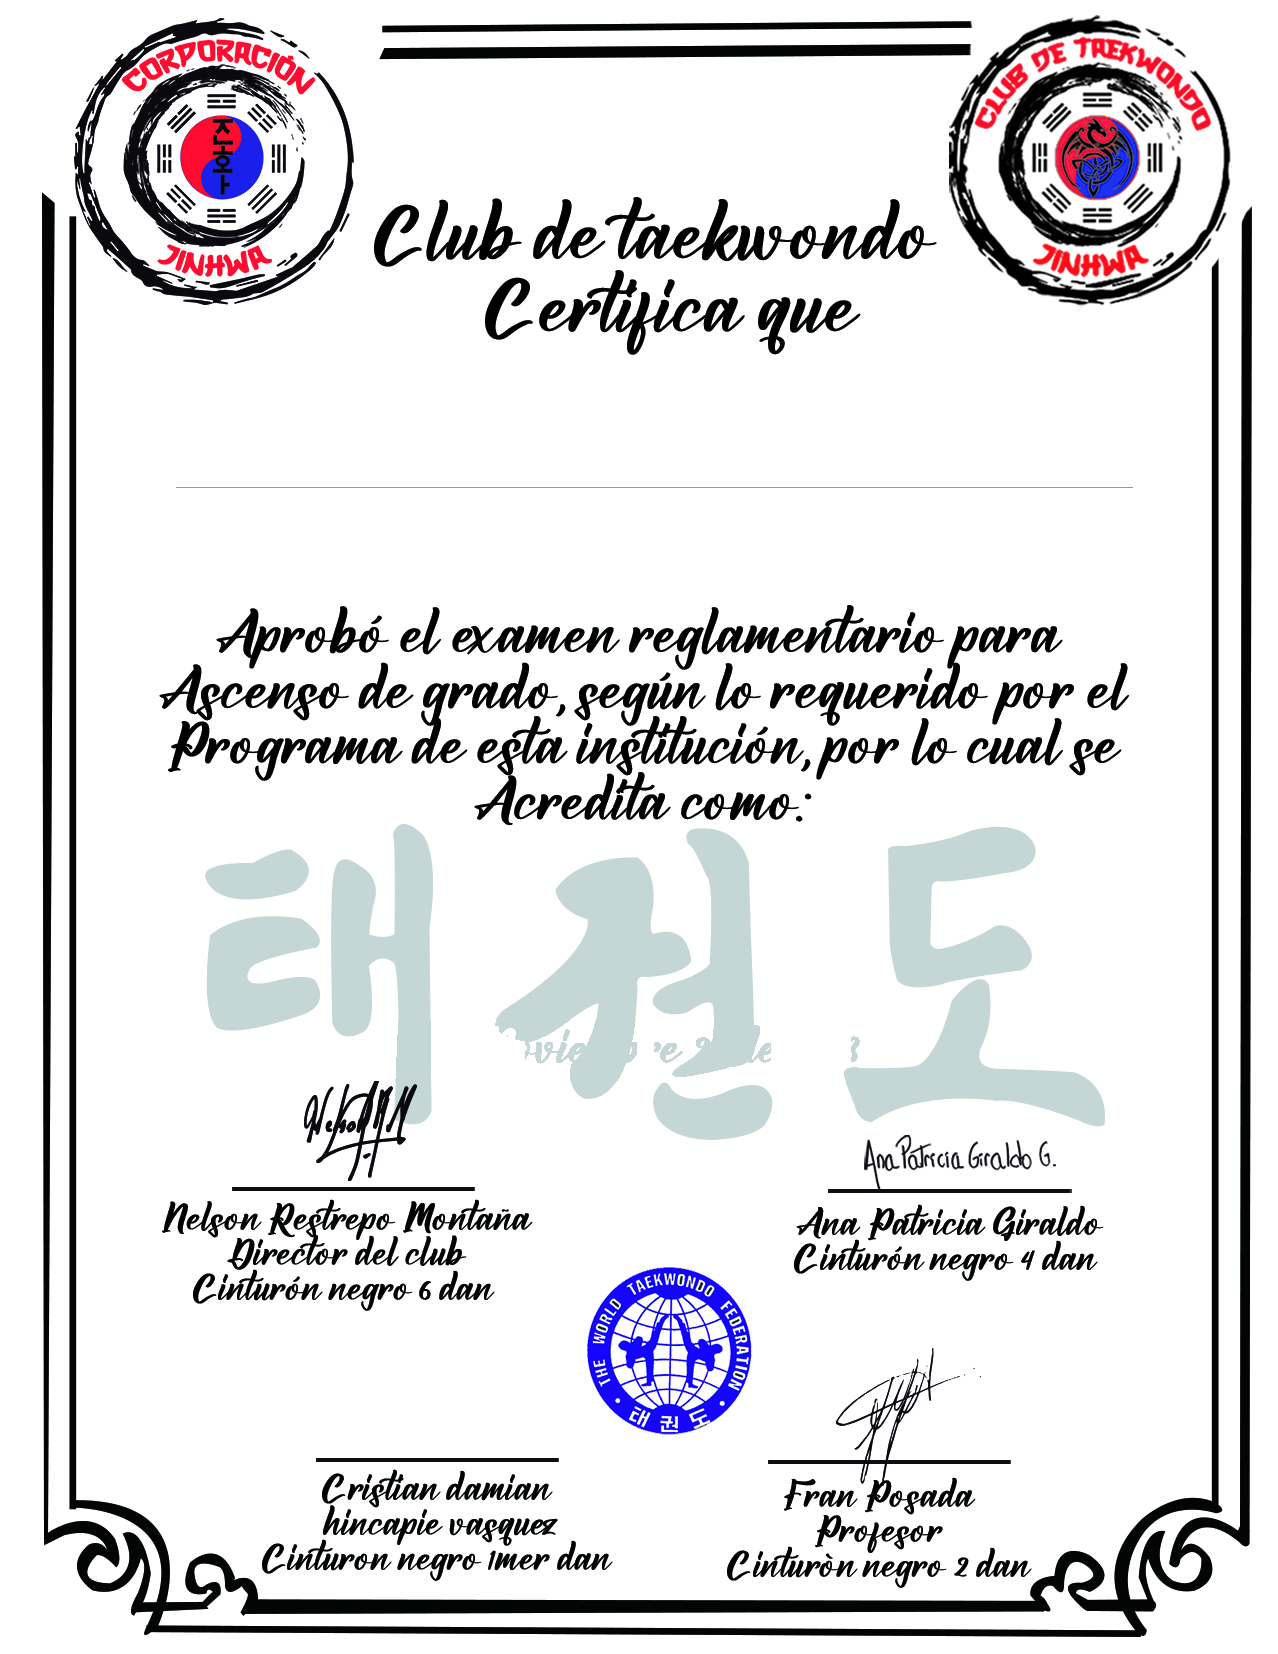
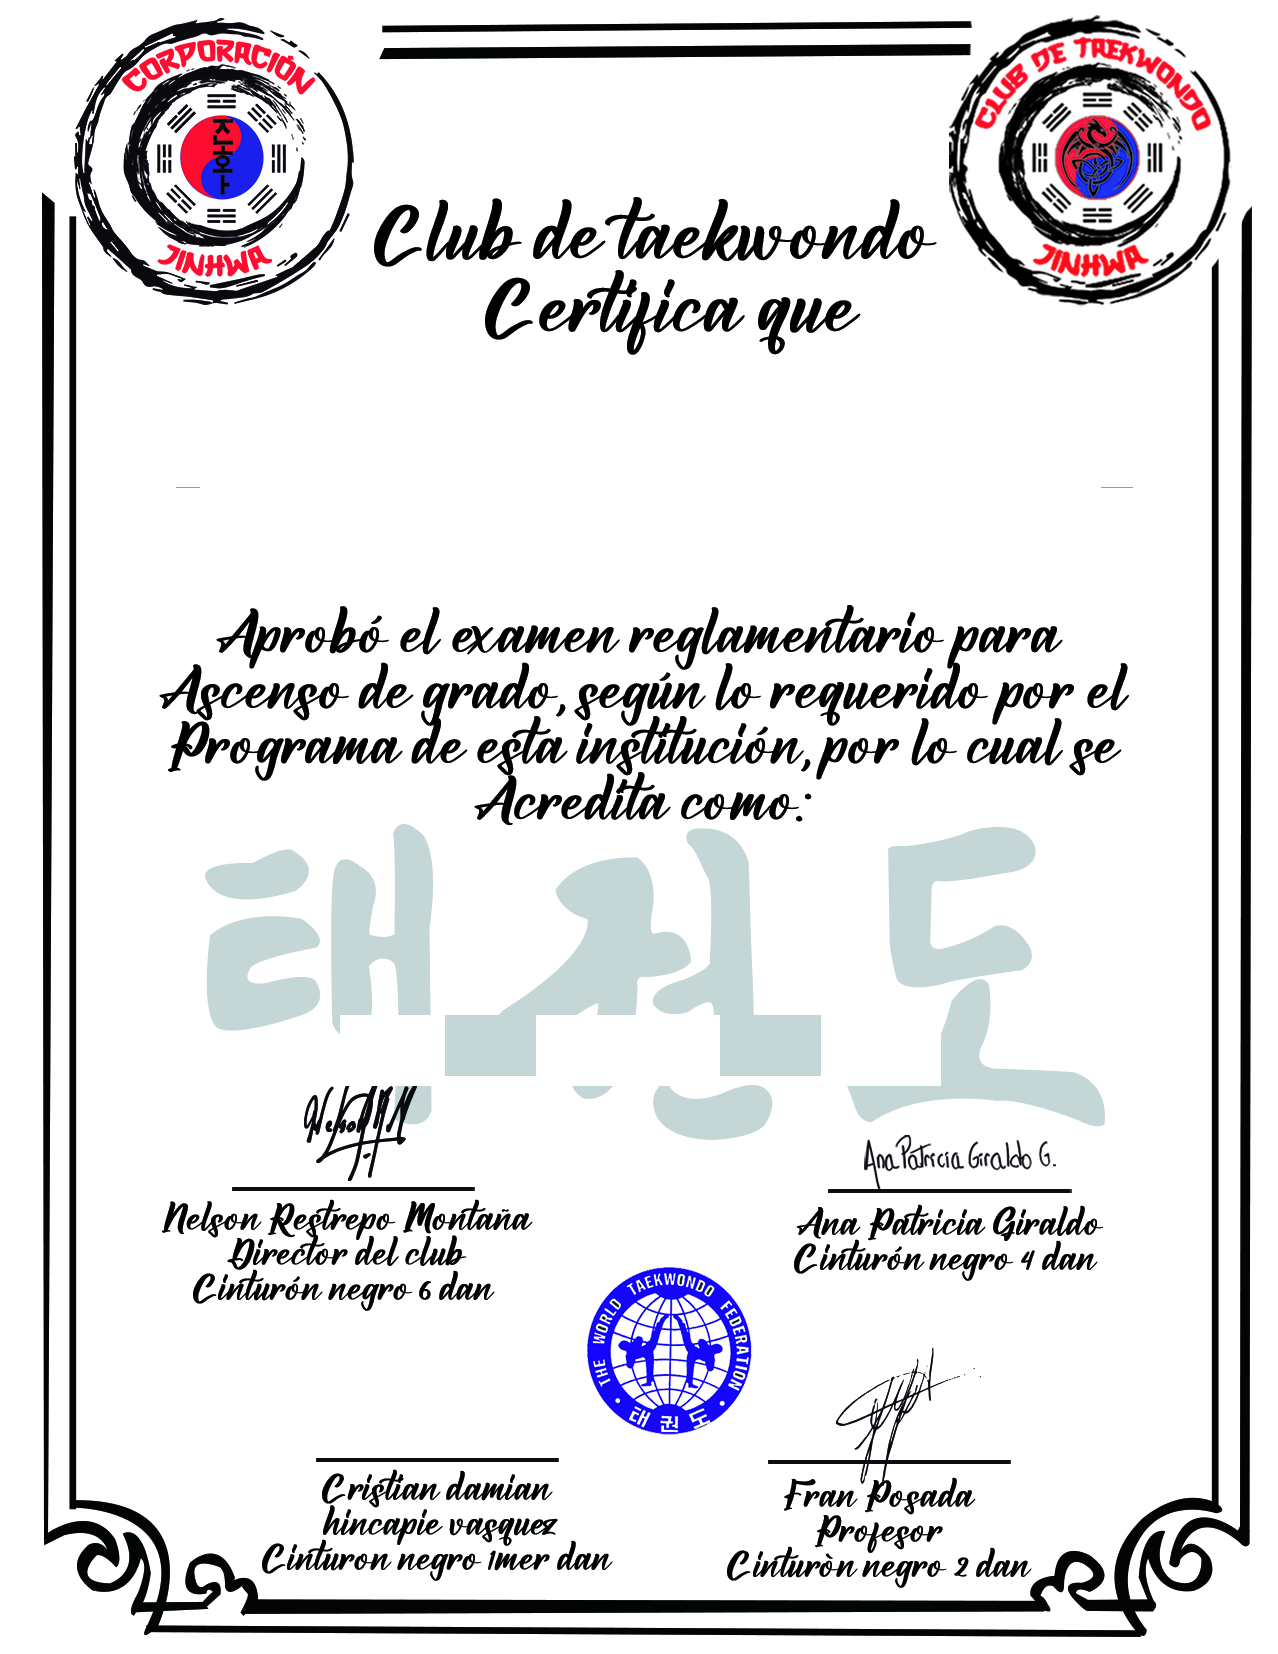
fix(diploma): plantilla v3 limpia, doc identidad visible, sin superposiciones en firmas

Changed region(s): [[0.2746, 0.6167, 0.7324, 0.6784]]

diff --git a/scratch/test_output.html b/scratch/test_output.html
@@ -13,60 +13,70 @@
 <link rel="preconnect" href="https://fonts.gstatic.com" crossorigin>
 <link href="https://fonts.googleapis.com/css2?family=Cinzel:wght@600;700;800;900&family=Playfair+Display:ital,wght@0,600;0,700;1,400&display=swap" rel="stylesheet">
 
-<div id="certificado-contenido" style="width:800px; height:1036px; max-width:100%; margin:0 auto; position:relative; background:#ffffff url('../public/img/visual/diploma_base.png') no-repeat center top; background-size:100% 100%; box-sizing:border-box; box-shadow:0 20px 45px rgba(15,23,42,0.18); border-radius:12px; overflow:hidden; font-family:'Playfair Display', Georgia, serif; color:#0f172a; user-select:none;">
+<div id="certificado-contenido" style="width:800px; height:1036px; max-width:100%; margin:0 auto; position:relative; background:#ffffff url('../public/img/visual/diploma_plantilla_v3.png?v=1790537845') no-repeat center top; background-size:100% 100%; box-sizing:border-box; box-shadow:0 20px 45px rgba(15,23,42,0.18); border-radius:12px; overflow:hidden; font-family:'Playfair Display', Georgia, serif; color:#0f172a; user-select:none;">
 
-    <!-- 1. ZONA DEL ESTUDIANTE: Nombre, documento, folio y sede sobre la línea de certificación -->
-    <div style="position:absolute; top:222px; left:70px; right:70px; text-align:center;">
-        <h2 style="font-family:'Cinzel', Georgia, serif; font-size:26px; font-weight:800; color:#0f172a; letter-spacing:1.8px; margin:0; line-height:1.2; text-shadow:0 0 1px rgba(0,0,0,0.15);">
-            ANA SOFÍA RAMÍREZ AGUDELO        </h2>
-        <div style="display:inline-flex; align-items:center; gap:8px; margin-top:5px; font-family:'Segoe UI', system-ui, sans-serif; font-size:11.5px; font-weight:700; color:#475569; letter-spacing:1px; text-transform:uppercase;">
-                            <span>T.I.: 1.025.485.992</span>
-                <span style="color:#cbd5e1;">•</span>
-                                        <span style="font-family:'Courier New', monospace; letter-spacing:1.5px; color:#1e293b;">FOLIO: JH-2026-0001</span>
+    <!-- 1. ZONA DEL ESTUDIANTE: Nombre completo sobre la línea y documento de identidad oficial -->
+    <div style="position:absolute; top:236px; left:60px; right:60px; text-align:center;">
+        <h2 style="font-family:'Cinzel', Georgia, serif; font-size:27px; font-weight:800; color:#0f172a; letter-spacing:2px; margin:0; line-height:1.2; text-shadow:0 0 1px rgba(0,0,0,0.12);">
+            ANA SOFIA SÁNCHEZ AGUDELO        </h2>
+        
+        <!-- Línea caligráfica institucional -->
+        <div style="width:540px; height:1.5px; background:linear-gradient(90deg, transparent, #1e293b 15%, #1e293b 85%, transparent); margin:7px auto 5px;"></div>
+
+        <!-- Documento de identidad oficial destacado y sin saltos -->
+                    <div style="font-family:'Segoe UI', system-ui, sans-serif; font-size:13.5px; font-weight:800; color:#0f172a; letter-spacing:1.5px; text-transform:uppercase;">
+                TI: 1011222665            </div>
+        
+        <!-- Folio y Sede en segunda línea para máxima nitidez -->
+        <div style="display:inline-flex; align-items:center; justify-content:center; gap:8px; margin-top:2px; font-family:'Segoe UI', system-ui, sans-serif; font-size:11px; font-weight:600; color:#64748b; letter-spacing:1px; text-transform:uppercase;">
+                            <span style="font-family:'Courier New', monospace; letter-spacing:1.5px; font-weight:700; color:#334155;">FOLIO: JH-2026-0001</span>
                                         <span style="color:#cbd5e1;">•</span>
-                <span>SEDE: Belén</span>
+                <span>SEDE PRINCIPAL SANTA MÓNICA CAMPO ALEGRE</span>
                     </div>
     </div>
 
     <!-- 
-        NOTA: En la plantilla base (diploma_base.png), entre y=380px e y=495px ya se encuentra 
+        NOTA: En la plantilla base (diploma_plantilla_v3.png), entre y=380px e y=516px ya se encuentra 
         impreso en el diseño oficial el texto:
         "Aprobó el examen reglamentario para Ascenso de grado, según lo requerido por el 
          Programa de esta institución, por lo cual se Acredita como:"
-        Por directriz de diseño, NO se posiciona ningún elemento encima de este bloque.
+        Esta zona queda 100% respetada y visible sin ninguna superposición.
     -->
 
-    <!-- 2. ZONA DE ACREDITACIÓN: Foto, nuevo grado, grado previo, fecha oficial y observaciones -->
-    <div style="position:absolute; top:514px; left:80px; right:80px; display:flex; flex-direction:column; align-items:center; text-align:center;">
+    <!-- 2. ZONA DE ACREDITACIÓN: Foto con insignia marcial, nuevo grado, fecha y observaciones -->
+    <div style="position:absolute; top:524px; left:60px; right:60px; display:flex; flex-direction:column; align-items:center; text-align:center;">
         
-        <!-- Foto oficial del estudiante con marco circular de honor -->
-        <div style="width:68px; height:68px; border-radius:50%; border:2.5px solid #0f172a; box-shadow:0 4px 12px rgba(15,23,42,0.22); overflow:hidden; background:#ffffff; margin-bottom:5px; flex-shrink:0;">
-            <img src="../public/img/visual/logo.svg" alt="Foto del estudiante" style="width:100%; height:100%; object-fit:cover; display:block;">
+        <!-- Bloque integrado: Foto del estudiante y Grado Acreditado -->
+        <div style="display:flex; align-items:center; justify-content:center; gap:18px;">
+            <!-- Foto oficial con marco circular de honor -->
+            <div style="width:64px; height:64px; border-radius:50%; border:2.5px solid #0f172a; box-shadow:0 3px 10px rgba(15,23,42,0.22); overflow:hidden; background:#ffffff; flex-shrink:0;">
+                <img src="../public/img/visual/logo.svg" alt="Foto del estudiante" style="width:100%; height:100%; object-fit:cover; display:block;">
+            </div>
+
+            <!-- Grado Acreditado e Indicador Previo -->
+            <div style="text-align:left;">
+                <div style="font-family:'Cinzel', Georgia, serif; font-size:24px; font-weight:900; color:#881337; letter-spacing:2px; text-transform:uppercase; margin:0; line-height:1.1; text-shadow:0 0 1px rgba(136,19,55,0.2);">
+                    PINTA ROJO                </div>
+                                    <div style="font-family:Georgia, serif; font-size:11.5px; font-style:italic; color:#475569; margin-top:3px;">
+                        Grado anterior: Azul                    </div>
+                            </div>
         </div>
 
-        <!-- Grado Acreditado -->
-        <div style="font-family:'Cinzel', Georgia, serif; font-size:23px; font-weight:900; color:#881337; letter-spacing:2px; text-transform:uppercase; margin:0; line-height:1.15; text-shadow:0 0 1px rgba(136,19,55,0.2);">
-            CINTURÓN PINTA ROJO        </div>
+        <!-- Distintivo de Fecha Oficial del Examen (opaco para máxima nitidez) -->
+        <div style="display:inline-block; margin-top:8px; min-width:280px; max-width:340px; background:#ffffff; border:1px solid #94a3b8; border-radius:9999px; padding:3px 22px; font-family:Georgia, serif; font-size:12px; font-style:italic; font-weight:600; color:#0f172a; box-shadow:0 2px 6px rgba(0,0,0,0.06); text-align:center;">
+            Medellín, 29 de Agosto de 2026        </div>
 
-        <!-- Indicador de Grado Anterior -->
-                    <div style="font-family:Georgia, serif; font-size:11px; font-style:italic; color:#475569; margin-top:2px;">
-                Grado anterior: Cinturón Azul            </div>
-        
-        <!-- Distintivo de Fecha Oficial del Examen (opaco para pulcritud total) -->
-        <div style="display:inline-block; margin-top:6px; min-width:280px; max-width:330px; background:#ffffff; border:1px solid #94a3b8; border-radius:9999px; padding:3px 20px; font-family:Georgia, serif; font-size:12px; font-style:italic; font-weight:600; color:#0f172a; box-shadow:0 2px 6px rgba(0,0,0,0.08); text-align:center;">
-            Medellín, 15 de Agosto de 2026        </div>
-
-        <!-- Observaciones / Mención de Honor del Maestro Evaluador (en el centro libre sin invadir firmas) -->
-                    <div style="margin-top:5px; max-width:330px; font-family:Georgia, serif; font-size:9.5px; line-height:1.25; font-style:italic; color:#334155; padding:0 5px;">
-                “El practicante demostró excelente disciplina y técnica de poomsae.”
+        <!-- Observaciones / Mención de Honor del Maestro Evaluador (en el centro superior sin tocar firmas) -->
+                    <div style="margin-top:6px; max-width:380px; font-family:Georgia, serif; font-size:9.5px; line-height:1.25; font-style:italic; color:#334155; padding:0 10px;">
+                “El practicante buen despeño tiene muy buana tecnica de pateo pero tiene que mejorar en las poomseas tiene un cardio muy bajo debe mejorar eso no sabe combatir peor lo intenta y tiene muy buen compañerismo.”
             </div>
             </div>
 
     <!-- 
-        NOTA: En la plantilla base (diploma_base.png), entre y=680px e y=1036px ya se encuentran 
+        NOTA: En la plantilla base (diploma_plantilla_v3.png), a partir de y=677px se encuentran 
         impresas las firmas originales y sellos: Gran Maestro Nelson Restrepo (6 Dan), 
         Maestra Ana Patricia Giraldo (4 Dan), Emblema Oficial WTF, Cristian Hincapié y Fran Posada.
-        La zona inferior queda 100% despejada y libre de elementos para respetar su autenticidad.
+        Toda esta zona queda 100% libre e intacta.
     -->
 
 </div>

diff --git a/scratch/signature_bounds.php b/scratch/signature_bounds.php
@@ -1,0 +1,33 @@
+<?php
+$orig = imagecreatefrompng('public/img/visual/diploma_base.png');
+// In diploma_base.png (1278x1654), where is the top of Nelson Restrepo's signature?
+// Let's scan y from 1000 to 1200, x from 200 to 600
+for ($y = 1020; $y <= 1180; $y += 5) {
+    for ($x = 200; $x <= 600; $x += 2) {
+        $rgb = imagecolorat($orig, $x, $y);
+        $r = ($rgb >> 16) & 0xFF;
+        $g = ($rgb >> 8) & 0xFF;
+        $b = $rgb & 0xFF;
+        if ($r < 60 && $g < 60 && $b < 60) {
+            echo "First dark pixel in signature area: x=$x, y=$y (scaled: x=" . round($x * 800/1278) . ", y=" . round($y * 800/1278) . ")\n";
+            break 2;
+        }
+    }
+}
+
+// Bounding box of Nelson's signature
+$minX = 2000; $maxX = 0; $minY = 2000; $maxY = 0;
+for ($y = 1020; $y <= 1250; $y++) {
+    for ($x = 200; $x <= 550; $x++) {
+        $rgb = imagecolorat($orig, $x, $y);
+        $r = ($rgb >> 16) & 0xFF;
+        if ($r < 80) {
+            if ($x < $minX) $minX = $x;
+            if ($x > $maxX) $maxX = $x;
+            if ($y < $minY) $minY = $y;
+            if ($y > $maxY) $maxY = $y;
+        }
+    }
+}
+echo "Nelson signature bounds (1278x1654): X: $minX to $maxX, Y: $minY to $maxY\n";
+echo "Nelson signature bounds (800x1036): X: " . round($minX*800/1278) . " to " . round($maxX*800/1278) . ", Y: " . round($minY*800/1278) . " to " . round($maxY*800/1278) . "\n";

diff --git a/scratch/render_test.php b/scratch/render_test.php
@@ -6,16 +6,16 @@ function asset($path = '') { return '../public/' . $path; }
 
 $cert = [
     'id_certificado' => 1,
-    'alumno_nombre' => 'Ana Sofía Ramírez Agudelo',
-    'tipo_documento' => 'T.I.',
-    'num_doc' => '1.025.485.992',
+    'alumno_nombre' => 'Ana Sofia Sánchez Agudelo',
+    'tipo_documento' => 'TI',
+    'num_doc' => '1011222665',
     'foto_perfil' => '',
-    'grado_anterior' => 'Cinturón Azul',
-    'grado_nuevo' => 'Cinturón Pinta Rojo',
-    'fecha_examen' => '2026-08-15',
-    'observaciones' => 'El practicante demostró excelente disciplina y técnica de poomsae.',
+    'grado_anterior' => 'Azul',
+    'grado_nuevo' => 'Pinta Rojo',
+    'fecha_examen' => '2026-08-29',
+    'observaciones' => 'El practicante buen despeño tiene muy buana tecnica de pateo pero tiene que mejorar en las poomseas tiene un cardio muy bajo debe mejorar eso no sabe combatir peor lo intenta y tiene muy buen compañerismo.',
     'folio' => 'JH-2026-0001',
-    'nombre_sede' => 'Belén'
+    'nombre_sede' => 'SEDE PRINCIPAL SANTA MÓNICA CAMPO ALEGRE'
 ];
 
 ob_start();
@@ -38,4 +38,4 @@ include __DIR__ . '/../vistas/administracion/certificado_preview.php';
 <?php
 $html = ob_get_clean();
 file_put_contents(__DIR__ . '/test_output.html', $html);
-echo "Generated static test_output.html\n";
+echo "Rendered static test_output.html with v3!\n";

diff --git a/scratch/generate_clean_v3.php b/scratch/generate_clean_v3.php
@@ -1,0 +1,30 @@
+<?php
+// Load original diploma base
+$orig = imagecreatefrompng('public/img/visual/diploma_base.png');
+$w = imagesx($orig);
+$h = imagesy($orig);
+
+$white   = imagecolorallocate($orig, 255, 255, 255);
+$wmColor = imagecolorallocate($orig, 196, 214, 214);
+
+// 1. Erase TI and the old line area completely (y: 470 to 570, x: 200 to 1100)
+// This gives us a 100% clean white space between "Certifica que" and "Aprobó el examen..."
+imagefilledrectangle($orig, 200, 470, 1100, 570, $white);
+
+// 2. Erase "Noviembre 26 de 2023" area completely (y: 1015 to 1085)
+// - Left of left stroke: white
+imagefilledrectangle($orig, 340, 1015, 444, 1085, $white);
+// - Left stroke of Kwon: exact watermark color
+imagefilledrectangle($orig, 445, 1015, 535, 1075, $wmColor);
+// - Gap between strokes: white
+imagefilledrectangle($orig, 536, 1015, 719, 1085, $white);
+// - Right stroke of Kwon: exact watermark color
+imagefilledrectangle($orig, 720, 1015, 820, 1075, $wmColor);
+// - Right of right stroke: white
+imagefilledrectangle($orig, 821, 1015, 940, 1085, $white);
+
+// Save as diploma_plantilla_v3.png and also overwrite diploma_base.png
+imagepng($orig, 'public/img/visual/diploma_plantilla_v3.png');
+imagepng($orig, 'public/img/visual/diploma_base.png');
+
+echo "diploma_plantilla_v3.png generated successfully!\n";

diff --git a/scratch/ana_bounds.php b/scratch/ana_bounds.php
@@ -1,0 +1,17 @@
+<?php
+$orig = imagecreatefrompng('public/img/visual/diploma_base.png');
+$minX = 2000; $maxX = 0; $minY = 2000; $maxY = 0;
+for ($y = 1020; $y <= 1250; $y++) {
+    for ($x = 750; $x <= 1150; $x++) {
+        $rgb = imagecolorat($orig, $x, $y);
+        $r = ($rgb >> 16) & 0xFF;
+        if ($r < 80) {
+            if ($x < $minX) $minX = $x;
+            if ($x > $maxX) $maxX = $x;
+            if ($y < $minY) $minY = $y;
+            if ($y > $maxY) $maxY = $y;
+        }
+    }
+}
+echo "Ana Patricia signature bounds (1278x1654): X: $minX to $maxX, Y: $minY to $maxY\n";
+echo "Ana Patricia signature bounds (800x1036): X: " . round($minX*800/1278) . " to " . round($maxX*800/1278) . ", Y: " . round($minY*800/1278) . " to " . round($maxY*800/1278) . "\n";

diff --git a/scratch/acredita_bounds.php b/scratch/acredita_bounds.php
@@ -1,0 +1,14 @@
+<?php
+$orig = imagecreatefrompng('public/img/visual/diploma_base.png');
+// Scan y from 750 to 900, x from 400 to 900
+$maxY = 0;
+for ($y = 750; $y <= 900; $y++) {
+    for ($x = 400; $x <= 900; $x++) {
+        $rgb = imagecolorat($orig, $x, $y);
+        $r = ($rgb >> 16) & 0xFF;
+        if ($r < 80) {
+            if ($y > $maxY) $maxY = $y;
+        }
+    }
+}
+echo "Acredita como ends at y=$maxY (scaled to 800: " . round($maxY*800/1278) . ")\n";
